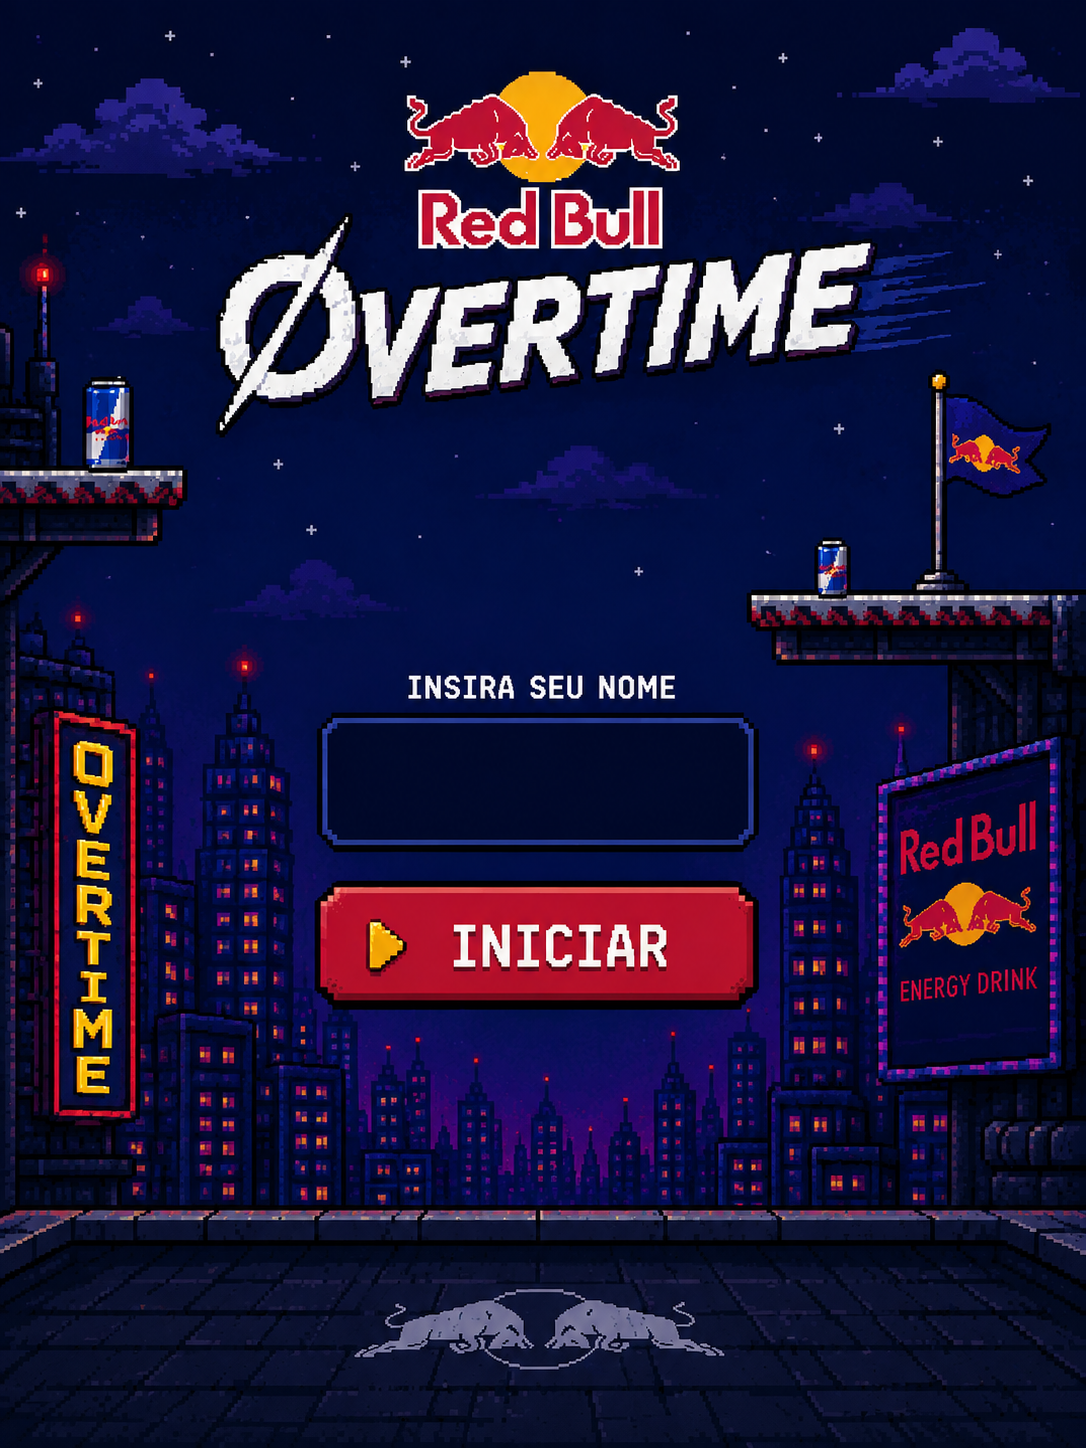
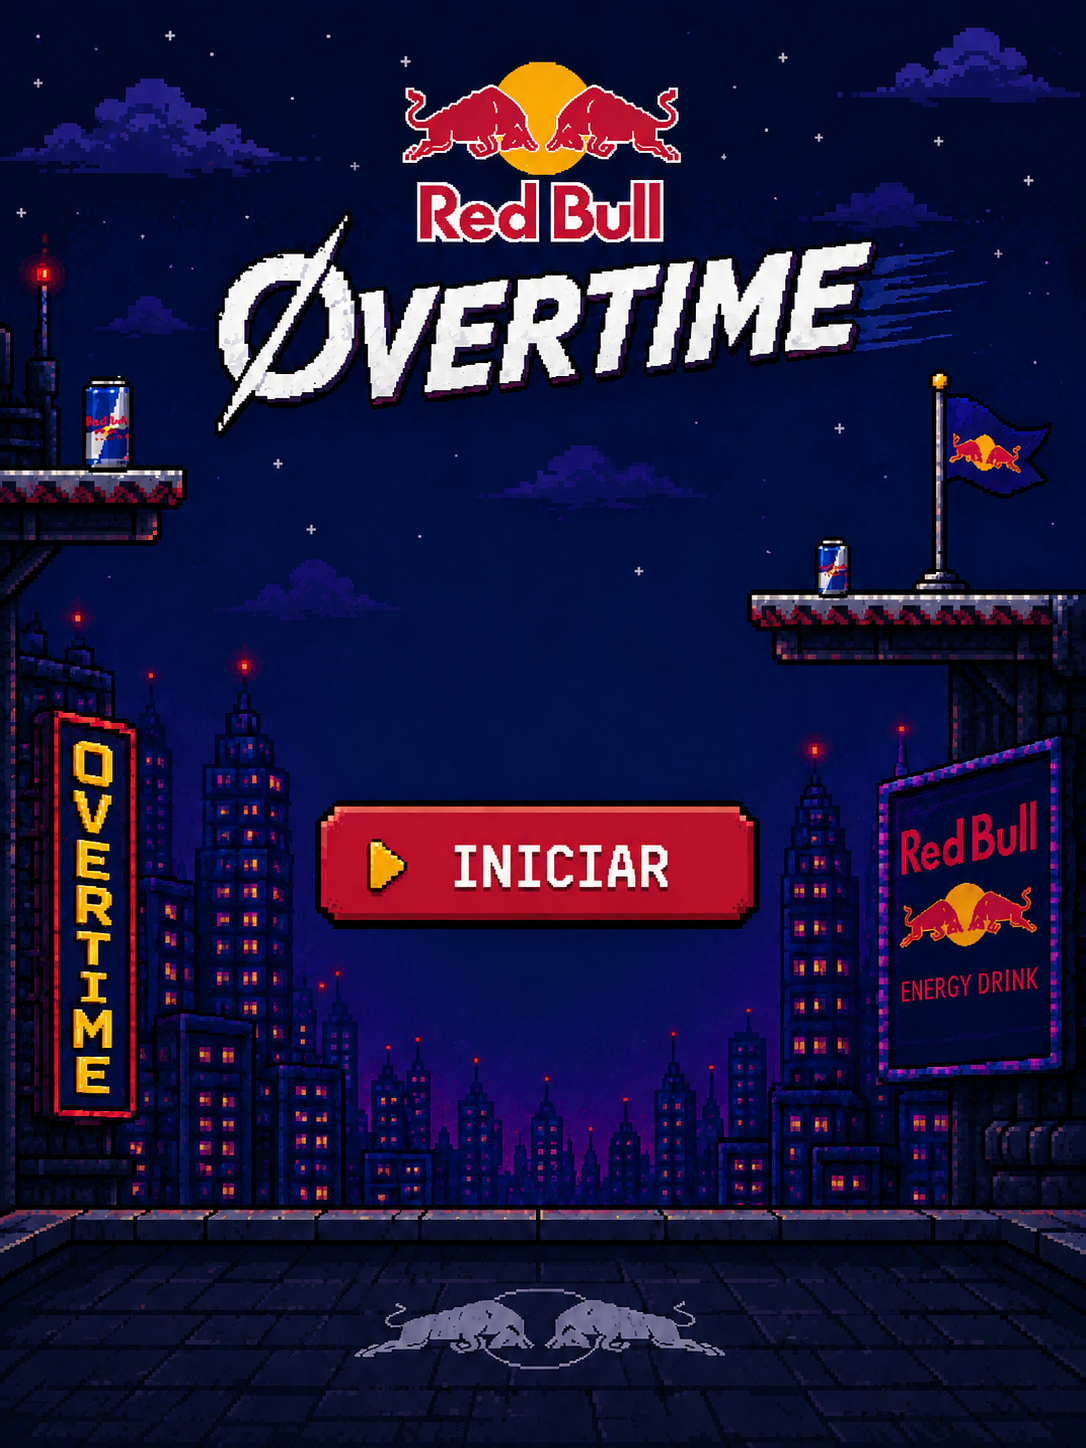
Arrumando tudo

diff --git a/main.py b/main.py
@@ -1,4 +1,3 @@
-import typing_extensions
 import pygame
 import sys
 import random
@@ -14,6 +13,15 @@ ESTADO_NOME = 0
 ESTADO_JOGANDO = 1
 ESTADO_GAMEOVER = 2
 ESTADO_VITORIA = 3
+
+# Nomes genéricos usados automaticamente para identificar cada jogador.
+NOMES_GENERICOS = [
+    "Blue", "Red", "Green", "Gold", "Silver",
+    "Indigo", "Cyan", "Amber", "Violet", "Coral",
+    "Onyx", "Jade", "Ruby", "Sage", "Azure",
+    "Ivory", "Teal", "Crimson", "Aqua", "Gray",
+]
+
 
 def carregar_sky():
     caminho0 = os.path.join("assets", "sky", "sky0.png")
@@ -186,8 +194,8 @@ def main():
 
     # Estado Inicial
     estado_atual = ESTADO_NOME
-    nome_input = ""
-    cursor_visivel = True
+    nome_input = random.choice(NOMES_GENERICOS)
+    cursor_visivel = False
     cursor_timer = 0.0
 
     # Dados da partida
@@ -219,8 +227,9 @@ def main():
             sx = sy = 1.0
         return pygame.Rect(int(x * sx), int(y * sy), int(w * sx), int(h * sy))
 
-    box_nome_rect = area_tela_inicial(314, 694, 418, 128)
-    btn_iniciar_rect = area_tela_inicial(311, 854, 424, 126)
+    # A nova arte nao possui mais campo de nome.
+    # Apenas o botao INICIAR e interativo.
+    btn_iniciar_rect = area_tela_inicial(311, 785, 424, 125)
 
     # Áreas clicáveis da tela de vitória (base 1024x1536).
     def area_tela_vitoria(x, y, w, h):
@@ -269,18 +278,10 @@ def main():
             if evento.type == pygame.QUIT:
                 rodando = False
 
-            # --- ESTADO 1: ENTRADA DE NOME ---
+            # --- ESTADO 1: TELA INICIAL ---
             if estado_atual == ESTADO_NOME:
-                if evento.type == pygame.KEYDOWN:
-                    if evento.key == pygame.K_RETURN:
-                        if nome_input.strip():
-                            iniciar_nova_partida()
-                    elif evento.key == pygame.K_BACKSPACE:
-                        nome_input = nome_input[:-1]
-                    else:
-                        if len(nome_input) < 12 and evento.unicode.isprintable():
-                            nome_input += evento.unicode
-
+                if evento.type == pygame.KEYDOWN and evento.key in (pygame.K_RETURN, pygame.K_SPACE):
+                    iniciar_nova_partida()
                 elif evento.type in (pygame.MOUSEBUTTONDOWN, pygame.FINGERDOWN):
                     if hasattr(evento, 'pos'):
                         pos_x, pos_y = evento.pos
@@ -288,16 +289,12 @@ def main():
                         pos_x = int(evento.x * LARGURA)
                         pos_y = int(evento.y * ALTURA)
 
-                    if box_nome_rect.collidepoint(pos_x, pos_y):
-                        # Mantém o foco visual no campo; a digitação continua por KEYDOWN.
-                        cursor_visivel = True
-                        cursor_timer = 0.0
-                    elif btn_iniciar_rect.collidepoint(pos_x, pos_y):
-                        if not nome_input.strip():
-                            nome_input = "Piloto"
+                    # Qualquer toque no botao INICIAR comeca a partida.
+                    if btn_iniciar_rect.collidepoint(pos_x, pos_y):
                         iniciar_nova_partida()
 
             # --- ESTADO 2: JOGANDO ---
+
             elif estado_atual == ESTADO_JOGANDO:
                 if evento.type == pygame.KEYDOWN:
                     if evento.key in (pygame.K_LEFT, pygame.K_a):
@@ -327,14 +324,15 @@ def main():
                     touch_esq_pressionado = False
                     touch_dir_pressionado = False
 
-            # --- ESTADO 3 & 4: GAME OVER OU VITÓRIA ---
+            # --- ESTADO 3 & 4: GAME OVER OU VITORIA ---
             elif estado_atual in (ESTADO_GAMEOVER, ESTADO_VITORIA):
                 if evento.type == pygame.KEYDOWN:
                     if evento.key == pygame.K_r:
                         iniciar_nova_partida()
                     elif evento.key == pygame.K_n:
+                        # Novo jogador recebe um novo nome automaticamente.
+                        nome_input = random.choice(NOMES_GENERICOS)
                         estado_atual = ESTADO_NOME
-                        nome_input = ""
 
                 elif evento.type in (pygame.MOUSEBUTTONDOWN, pygame.FINGERDOWN):
                     if hasattr(evento, 'pos'):
@@ -343,15 +341,26 @@ def main():
                         pos_x = int(evento.x * LARGURA)
                         pos_y = int(evento.y * ALTURA)
 
-                    if estado_atual == ESTADO_VITORIA and btn_vitoria_repetir.collidepoint(pos_x, pos_y):
-                        iniciar_nova_partida()
-                    elif estado_atual == ESTADO_VITORIA and btn_vitoria_trocar.collidepoint(pos_x, pos_y):
-                        estado_atual = ESTADO_NOME
-                        nome_input = ""
+                    if estado_atual == ESTADO_VITORIA:
+                        if btn_vitoria_repetir.collidepoint(pos_x, pos_y):
+                            iniciar_nova_partida()
+                        elif btn_vitoria_trocar.collidepoint(pos_x, pos_y):
+                            nome_input = random.choice(NOMES_GENERICOS)
+                            estado_atual = ESTADO_NOME
                     elif estado_atual == ESTADO_GAMEOVER:
-                        iniciar_nova_partida()
+                        # Os botoes da arte de Game Over podem ser tratados como
+                        # zonas independentes; clicar em Trocar Jogador deve
+                        # voltar para a tela inicial.
+                        if 'btn_gameover_trocar' in locals() and btn_gameover_trocar.collidepoint(pos_x, pos_y):
+                            nome_input = random.choice(NOMES_GENERICOS)
+                            estado_atual = ESTADO_NOME
+                        elif 'btn_gameover_repetir' in locals() and btn_gameover_repetir.collidepoint(pos_x, pos_y):
+                            iniciar_nova_partida()
+                        else:
+                            iniciar_nova_partida()
 
         # --- Lógica por Estado ---
+
         if estado_atual == ESTADO_NOME:
             cursor_timer += dt
             if cursor_timer >= 0.5:
@@ -406,7 +415,7 @@ def main():
 
                             if plat.is_finish_line:
                                 estado_atual = ESTADO_VITORIA
-                                salvar_tempo(nome_input if nome_input.strip() else "Piloto", tempo_jogo)
+                                salvar_tempo(nome_input, tempo_jogo)
                                 ranking_top5 = carregar_top_ranking(5)
                             break
 
@@ -445,23 +454,13 @@ def main():
         # ----------------------------------------------------
         if estado_atual == ESTADO_NOME:
             if tela_inicial_img:
-                tela_inicial = pygame.transform.scale(tela_inicial_img, (LARGURA, ALTURA))
+                tela_inicial = pygame.transform.scale(
+                    tela_inicial_img,
+                    (LARGURA, ALTURA)
+                )
                 tela.blit(tela_inicial, (0, 0))
             else:
                 tela.fill((5, 10, 30))
-
-            # O texto, moldura e botão já fazem parte da arte.
-            # Aqui o Pygame desenha apenas o texto digitado dentro do retângulo.
-            txt_nome_display = nome_input + ("|" if cursor_visivel else "")
-            if nome_input or cursor_visivel:
-                txt_nome_draw = fonte_media.render(txt_nome_display, True, (255, 255, 255))
-                tela.blit(
-                    txt_nome_draw,
-                    (
-                        box_nome_rect.x + 18,
-                        box_nome_rect.y + box_nome_rect.height // 2 - txt_nome_draw.get_height() // 2,
-                    ),
-                )
 
         # ----------------------------------------------------
         # RENDERIZAR JOGO
@@ -530,7 +529,7 @@ def main():
             passo_rk = int(ALTURA * (72 / 1536))
 
             for idx, item in enumerate(ranking_top5[:5], start=1):
-                nome = str(item.get('nome', 'Piloto'))
+                nome = str(item.get('nome', 'Jogador'))
                 tempo = float(item.get('tempo', 0.0))
 
                 txt_nome = fonte_media.render(nome, True, (255, 255, 255))
